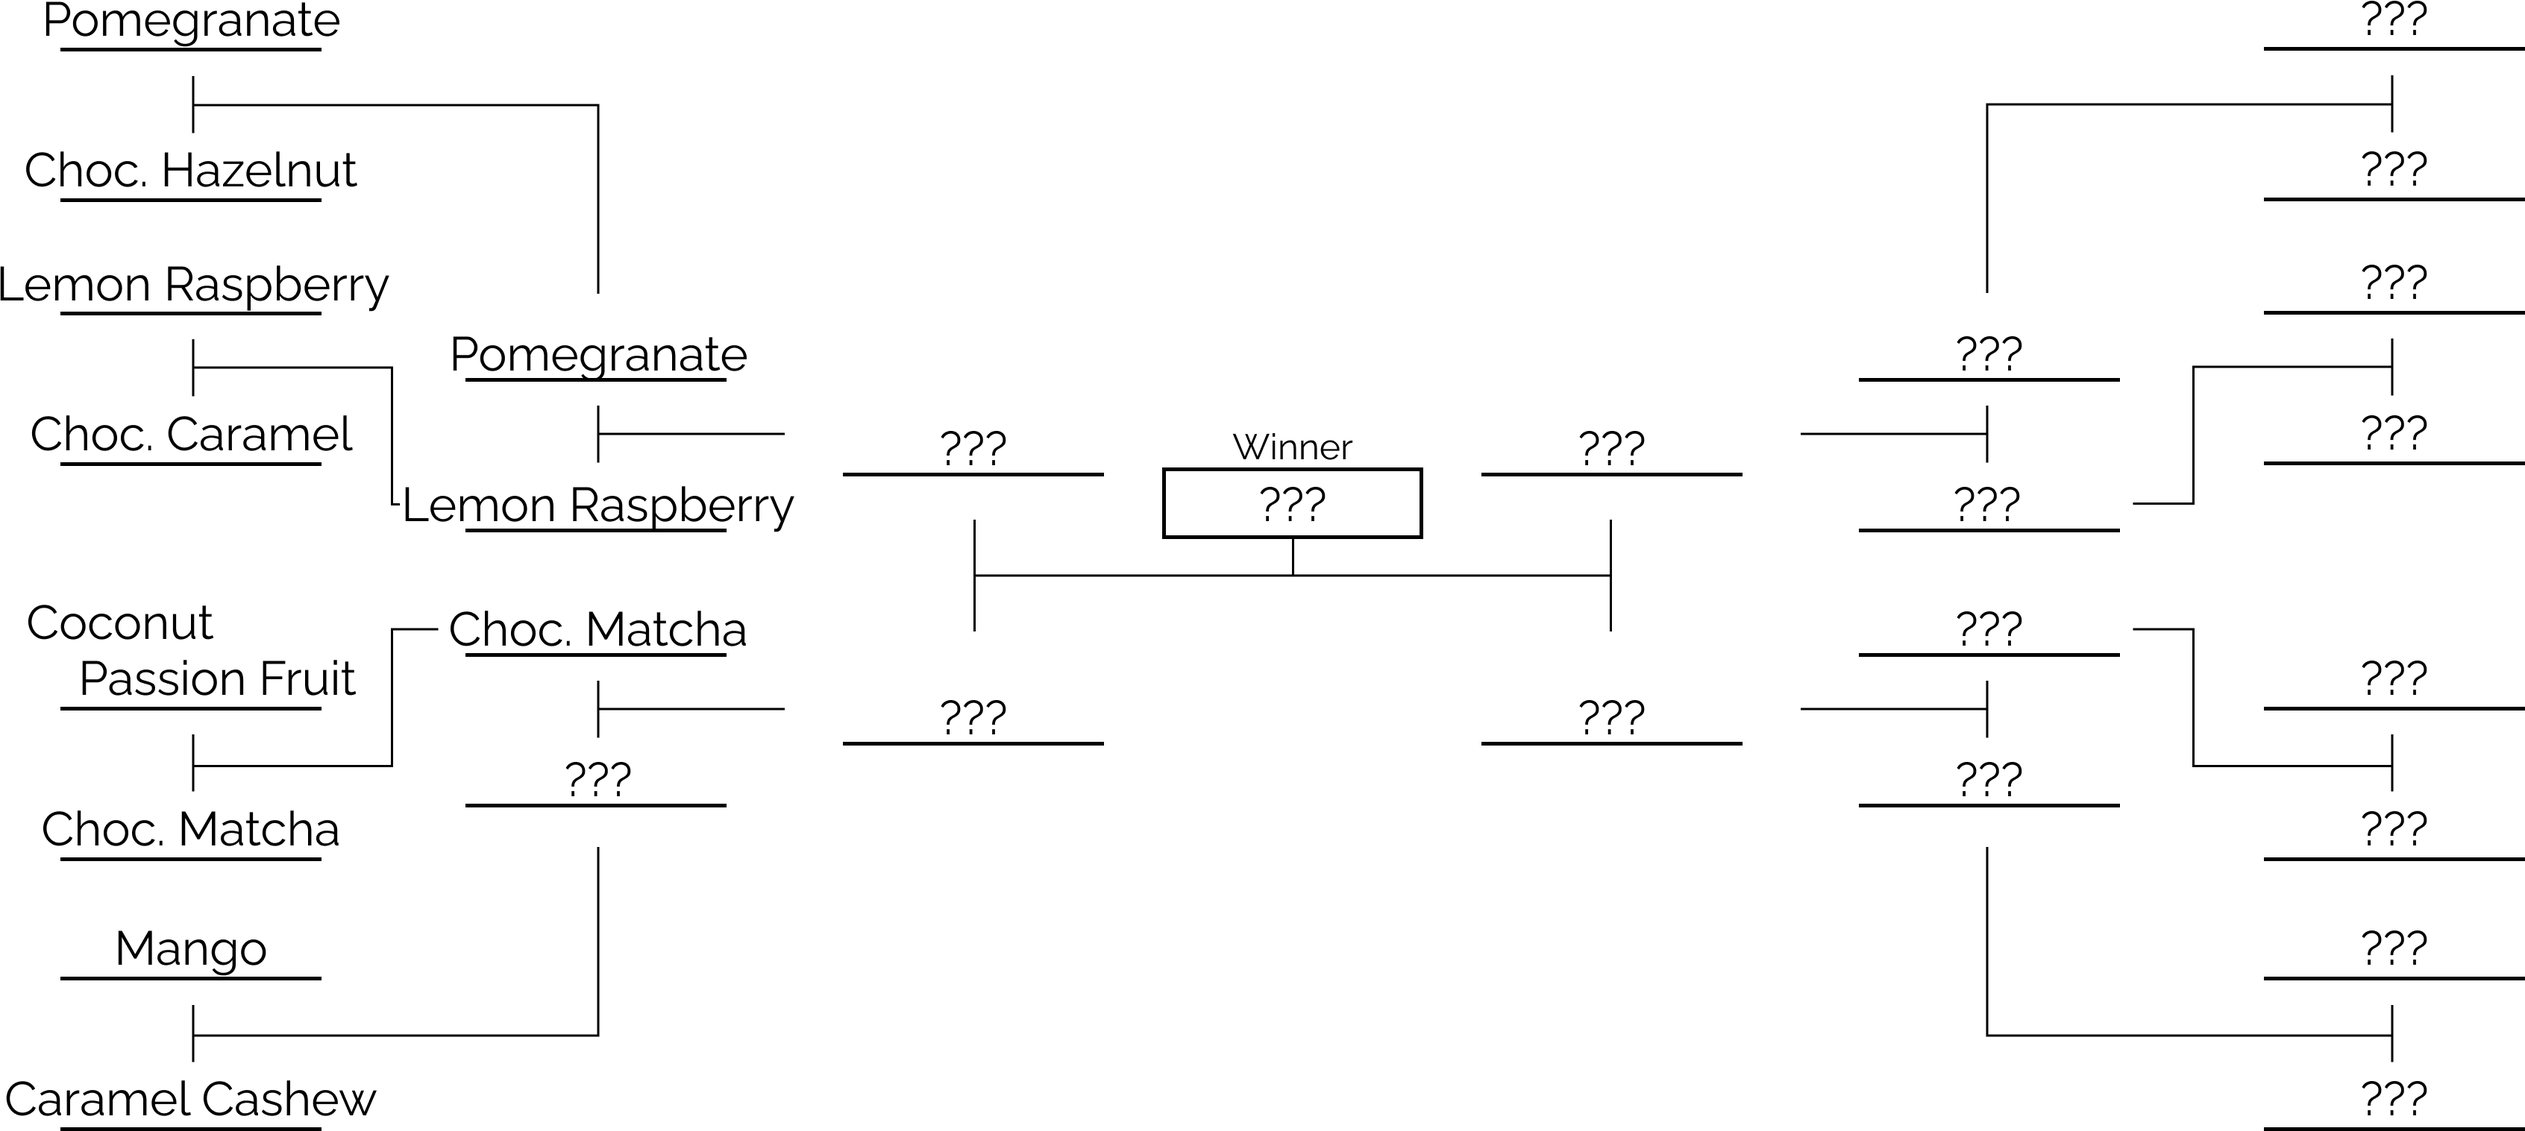
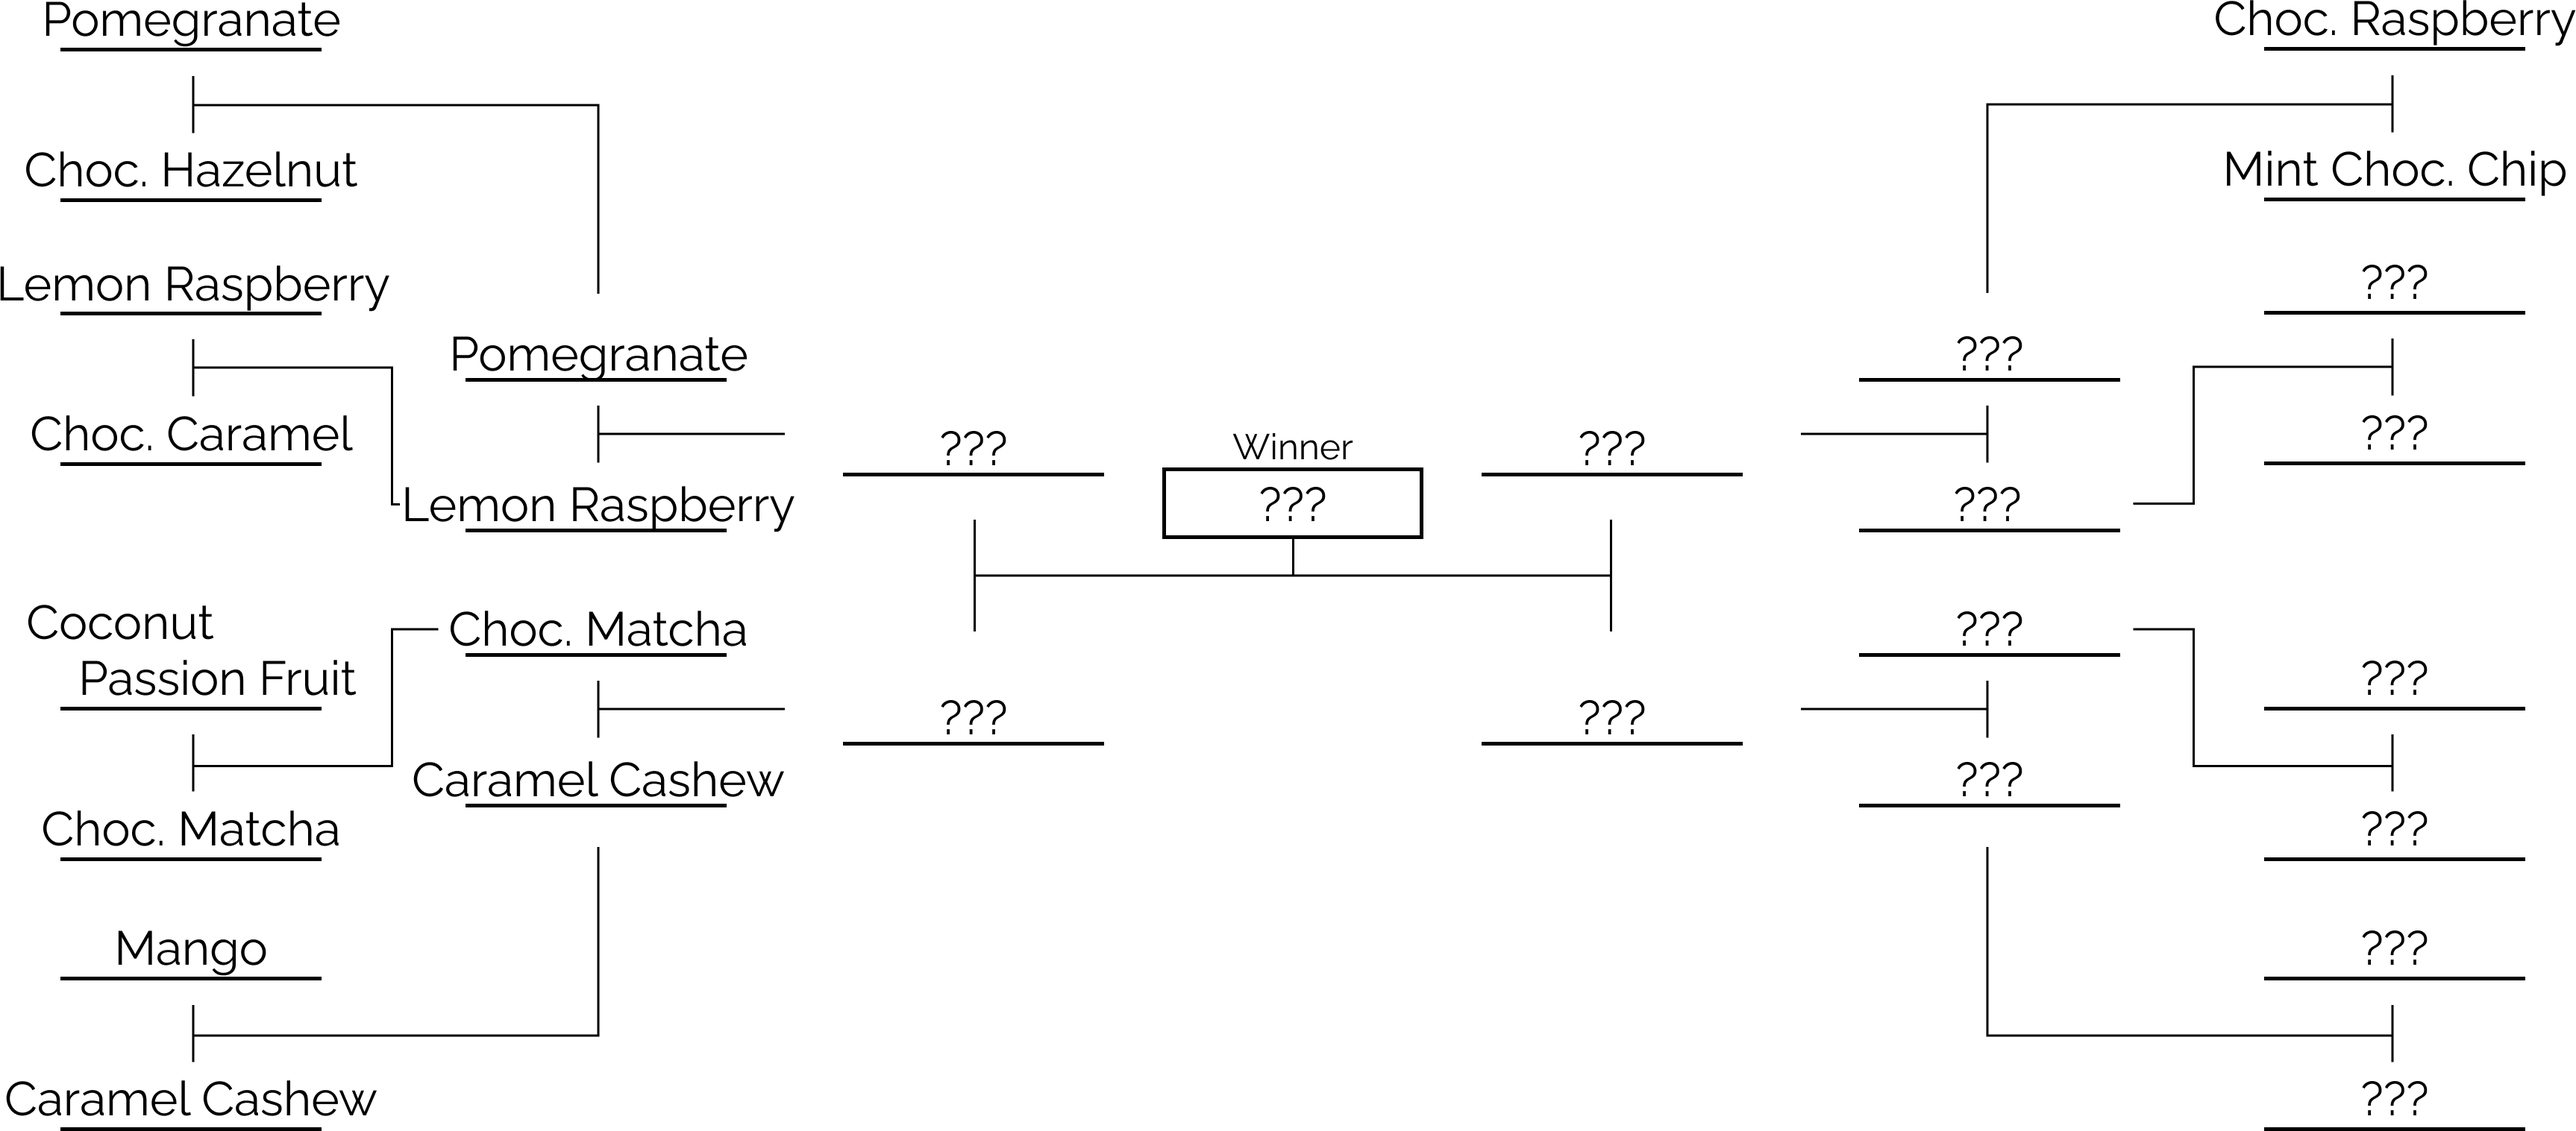
Update - weekly bracket & flavor update (8/5) (#40)

diff --git a/src/routes/sweet-16/vote.tsx b/src/routes/sweet-16/vote.tsx
@@ -153,8 +153,8 @@ export default function Vote() {
                       value="one"
                     />
                     <label for="one" class={`voteOption ${styles.disabled}`}>
-                      <img src="/images/cupcake-graphics/mango.svg" />
-                      Mango
+                      <img src="/images/cupcake-graphics/chocolate-raspberry.svg" />
+                      Chocolate Raspberry
                     </label>
                     <input
                       type="radio"
@@ -164,8 +164,8 @@ export default function Vote() {
                       value="two"
                     />
                     <label for="two" class={`voteOption ${styles.disabled}`}>
-                      <img src="/images/cupcake-graphics/salted-caramel-cashew.svg" />
-                      Salted Caramel Cashew
+                      <img src="/images/cupcake-graphics/mint-chocolate-chip.svg" />
+                      Mint Chocolate Chip
                     </label>
                   </div>
                   <input

diff --git a/src/routes/farmers-market/index.tsx b/src/routes/farmers-market/index.tsx
@@ -14,8 +14,8 @@ export default function FarmersMarket() {
     [new Date(2023, 6, 8), 'Lemon Raspberry & Chocolate Caramel'],
     [new Date(2023, 6, 15), 'Coconut Passion Fruit & Chocolate Matcha'],
     [new Date(2023, 6, 22), 'Mango & Salted Caramel Cashew'],
-    [new Date(2023, 7, 5), 'Chocolate Raspberry & Mint Chocolate Chip'],
-    [new Date(2023, 7, 12), '???'],
+    [new Date(2023, 7, 5), 'Chocolate Raspberry & Mint Chocolate Chip *& Lilikoi Guava*'],
+    [new Date(2023, 7, 12), 'Pomegranate & Lemon Raspberry'],
     [new Date(2023, 7, 19), '???'],
     [new Date(2023, 7, 26), '???'],
     [new Date(2023, 8, 2), '???'],

diff --git a/src/routes/sweet-16/index.tsx b/src/routes/sweet-16/index.tsx
@@ -24,8 +24,7 @@ export default function Sweet16() {
         <div class={`${styles.section} ${styles.two}`}>
           <h3>Bracket</h3>
           <p>
-            This week is the the fourth week of the bracket: Mango vs. Salted
-            Caramel Cashew
+            This week is the the fifth week of the bracket: Chocolate Raspberry vs. Mint Chocolate Chip
           </p>
           <br />
           <img src="/images/bracket.svg" class={styles.bracket} />
